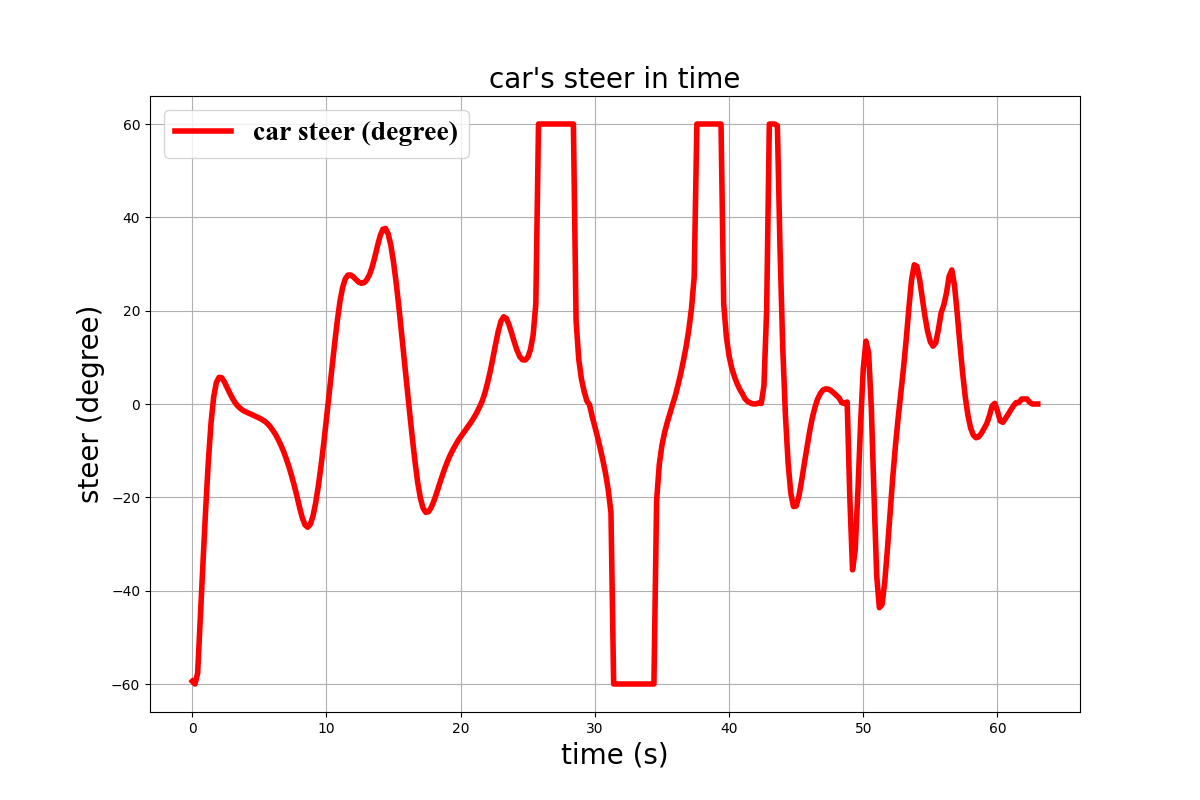
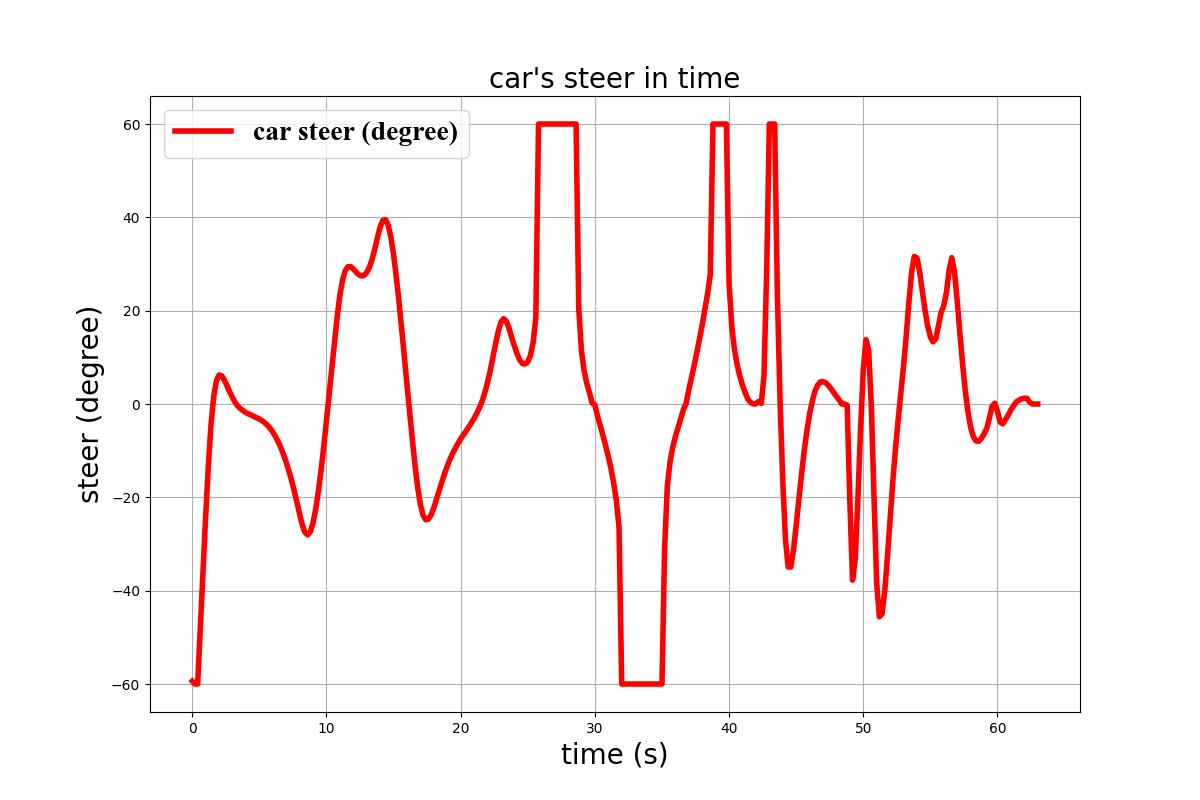
checkpoint

diff --git a/CAR kinematic model/environment.py b/CAR kinematic model/environment.py
@@ -5,11 +5,13 @@ class Environment:
     def __init__(self,obstacles):
         self.margin = 5
         #coordinates are in [x,y] format
-        self.car_length = 80
+        self.car_length = 85
         self.car_width = 40
+        self.trailer_length = 45
+        self.trailer_width = 40
         self.wheel_length = 15
         self.wheel_width = 7
-        self.wheel_positions = np.array([[25,15],[25,-15],[-25,15],[-25,-15]])
+        self.wheel_positions = np.array([[26,15],[26,-15],[-26,15],[-26,-15]])
         
         self.color = np.array([0,0,255])/255
         self.wheel_color = np.array([20,20,20])/255
@@ -18,6 +20,12 @@ class Environment:
                                     [+self.car_length/2, -self.car_width/2],  
                                     [-self.car_length/2, -self.car_width/2],
                                     [-self.car_length/2, +self.car_width/2]], 
+                                    np.int32)
+
+        self.trailer_struct = np.array([[+self.trailer_length/2, +self.trailer_width/2],
+                                    [+self.trailer_length/2, -self.trailer_width/2],
+                                    [-self.trailer_length/2, -self.trailer_width/2],
+                                    [-self.trailer_length/2, +self.trailer_width/2]],
                                     np.int32)
         
         self.wheel_struct = np.array([[+self.wheel_length/2, +self.wheel_width/2],
@@ -53,7 +61,7 @@ class Environment:
                     [np.sin(angle),  np.cos(angle)]])
         return ((R @ pts.T).T).astype(int)
 
-    def render(self, x, y, psi, delta):
+    def render(self, x, y, psi, psi2, zeta, delta):
         # x,y in 100 coordinates
         x = int(10*x)
         y = int(10*y)
@@ -62,6 +70,13 @@ class Environment:
         rotated_struct = self.rotate_car(self.car_struct, angle=psi)
         rotated_struct += np.array([x,y]) + np.array([10*self.margin,10*self.margin])
         rendered = cv2.fillPoly(self.background.copy(), [rotated_struct], self.color)
+
+        #adding trailer
+        d1_in_px = 100
+        rotated_struct = self.rotate_car(self.trailer_struct, angle=psi2)
+        # rotated_struct = self.rotate_car(self.trailer_struct, angle=0)
+        rotated_struct += np.array([x-(d1_in_px*np.cos(zeta)).astype(int),y+(d1_in_px*np.sin(zeta)).astype(int)]) + np.array([10*self.margin,10*self.margin])
+        rendered = cv2.fillPoly(rendered, [rotated_struct], self.color)
 
         # adding wheel
         rotated_wheel_center = self.rotate_car(self.wheel_positions, angle=psi)

diff --git a/CAR kinematic model/main_autopark.py b/CAR kinematic model/main_autopark.py
@@ -13,6 +13,7 @@ if __name__ == '__main__':
     parser.add_argument('--x_start', type=int, default=3, help='X of start')
     parser.add_argument('--y_start', type=int, default=100, help='Y of start')
     parser.add_argument('--psi_start', type=int, default=0, help='psi of start')
+    parser.add_argument('--psi2_start', type=int, default=0, help='psi2 of start')
     parser.add_argument('--x_end', type=int, default=10, help='X of end')
     parser.add_argument('--y_end', type=int, default=10, help='Y of end')
     parser.add_argument('--parking', type=int, default=1, help='park position in parking1 out of 24')
@@ -50,12 +51,12 @@ if __name__ == '__main__':
 
     ########################### initialization ##################################################
     env = Environment(obs)
-    my_car = Car_Dynamics(start[0], start[1], 0, np.deg2rad(args.psi_start), length=2.8, dt=0.2)
+    my_car = Car_Dynamics(start[0], start[1], 0, np.deg2rad(args.psi_start),np.deg2rad(args.psi2_start),np.deg2rad(args.psi2_start),d1=5, length=3, dt=0.2)
     MPC_HORIZON = 5
     controller = MPC_Controller()
     # controller = Linear_MPC_Controller()
 
-    res = env.render(my_car.x, my_car.y, my_car.psi, 0)
+    res = env.render(my_car.x, my_car.y, my_car.psi, my_car.psi2, my_car.zeta, 0)
     cv2.imshow('environment', res)
     key = cv2.waitKey(1)
     #############################################################################################
@@ -89,7 +90,7 @@ if __name__ == '__main__':
         
             acc, delta = controller.optimize(my_car, final_path[i:i+MPC_HORIZON])
             my_car.update_state(my_car.move(acc,  delta))
-            res = env.render(my_car.x, my_car.y, my_car.psi, delta)
+            res = env.render(my_car.x, my_car.y, my_car.psi, my_car.psi2, my_car.zeta, delta)
             logger.log(point, my_car, acc, delta)
             cv2.imshow('environment', res)
             key = cv2.waitKey(1)
@@ -97,7 +98,7 @@ if __name__ == '__main__':
                 cv2.imwrite('res.png', res*255)
 
     # zeroing car steer
-    res = env.render(my_car.x, my_car.y, my_car.psi, 0)
+    res = env.render(my_car.x, my_car.y, my_car.psi, my_car.psi2, my_car.zeta, 0)
     logger.save_data()
     cv2.imshow('environment', res)
     key = cv2.waitKey()

diff --git a/CAR kinematic model/control.py b/CAR kinematic model/control.py
@@ -4,21 +4,26 @@ import copy
 
 
 class Car_Dynamics:
-    def __init__(self, x_0, y_0, v_0, psi_0, length, dt):
+    def __init__(self, x_0, y_0, v_0, psi_0, psi2_0, zeta_0, d1, length, dt):
         self.dt = dt             # sampling time
         self.L = length          # vehicle length
         self.x = x_0
         self.y = y_0
         self.v = v_0
         self.psi = psi_0
-        self.state = np.array([[self.x, self.y, self.v, self.psi]]).T
+        self.psi2 = psi2_0
+        self.zeta = zeta_0
+        self.d1 = d1
+        self.state = np.array([[self.x, self.y, self.v, self.psi, self.psi2,self.zeta]]).T
 
     def move(self, accelerate, delta):
         x_dot = self.v*np.cos(self.psi)
         y_dot = self.v*np.sin(self.psi)
         v_dot = accelerate
         psi_dot = self.v*np.tan(delta)/self.L
-        return np.array([[x_dot, y_dot, v_dot, psi_dot]]).T
+        psi2_dot = self.v * np.sin(delta-self.psi2) / self.d1
+        zeta_dot = -(self.v / self.L)*(np.tan(delta) + (self.L*np.sin(self.zeta)/self.d1))
+        return np.array([[x_dot, y_dot, v_dot, psi_dot, psi2_dot, zeta_dot]]).T
 
     def update_state(self, state_dot):
         # self.u_k = command
@@ -28,6 +33,8 @@ class Car_Dynamics:
         self.y = self.state[1,0]
         self.v = self.state[2,0]
         self.psi = self.state[3,0]
+        self.psi2 = self.state[4,0]
+        self.zeta = self.state[5,0]
 
     
 class MPC_Controller:
